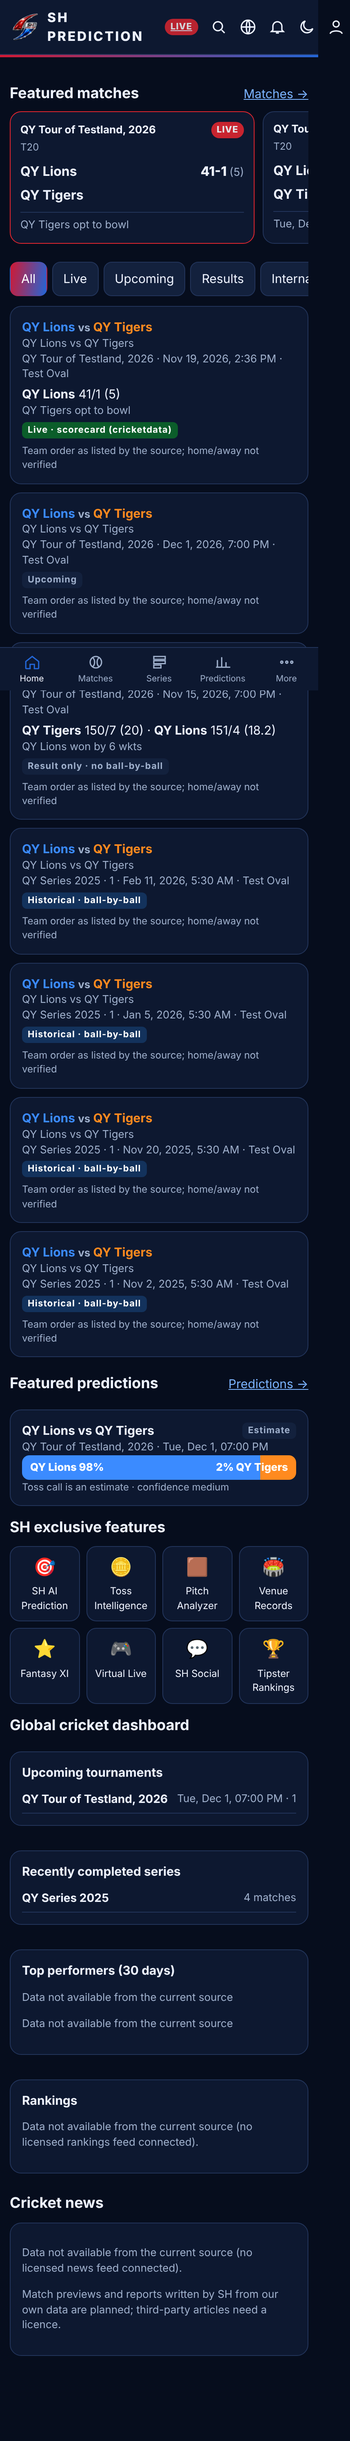
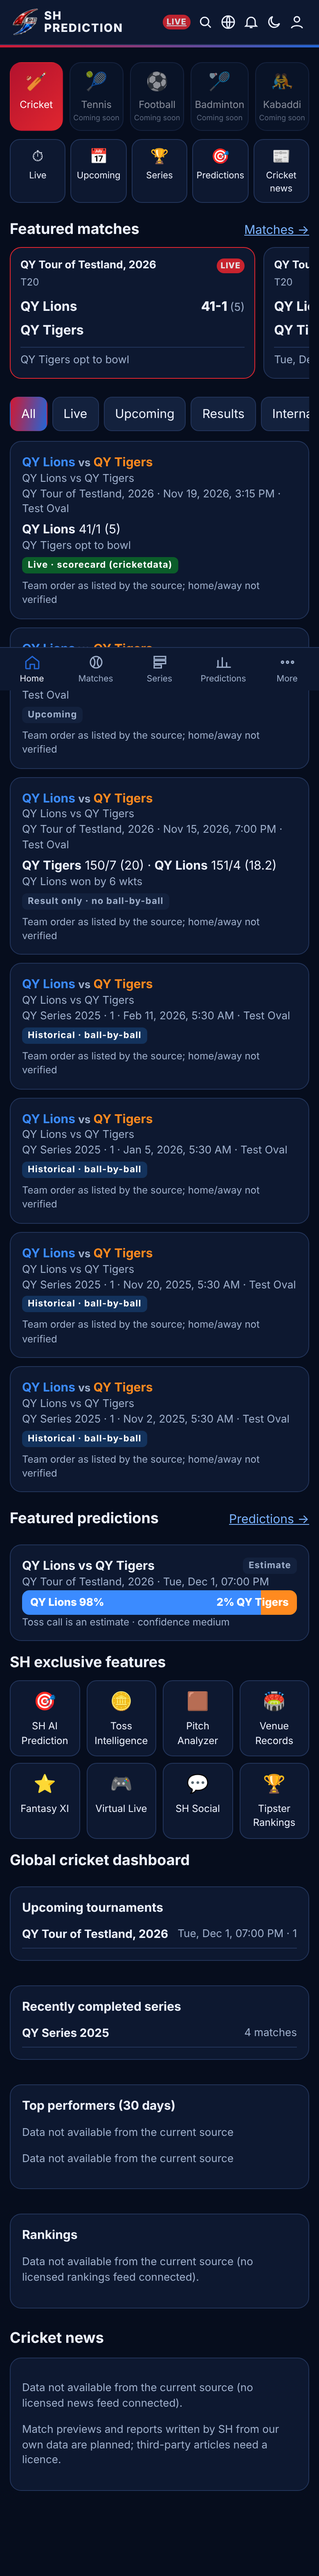
Owner mockups applied: sport selector + quick links, Match Center view modes (SH Advanced / CREX / Cricbuzz), score strip, commentary filters, History, Series Stats
- Home: Cricket active; Tennis/Football/Badminton/Kabaddi marked Coming soon (contract order); quick links Live/Upcoming/Series/Predictions/News
- Match Center: 3 view modes saved per device; CREX order Info, Fantasy, Discussions, Commentary, Live, Scorecard, History, Series Stats, Graphs
- Header: CRR, Target, RRR, Overs left, Toss; lead/trail banner for multi-day matches
- Commentary: All / Highlights / Overs / W / 4s / 6s with end-of-over summaries; History innings progression; Series Stats points table + leaders
- Startup draws once after all scripts load (fixes intermittent deep-link error); 16 new strings in 9 languages
- Tests: 93 passing; 48 Chrome page loads clean

Claude-Session: https://claude.ai/code/session_014DLpndkj9woB4NGX6QhaEa

diff --git a/app/hub.html b/app/hub.html
@@ -73,7 +73,10 @@ canvas{width:100%;height:190px;display:block}
 .h2h-row{display:grid;grid-template-columns:1fr auto;gap:2px 8px;padding:8px 0;border-bottom:1px solid var(--line);font-size:14px}
 header.top{display:flex;align-items:center;gap:10px}.hdr{display:flex;gap:2px;align-items:center}.hb{background:none;border:0;padding:6px;color:var(--text);display:inline-flex;align-items:center;cursor:pointer}
 .hb svg{width:22px;height:22px;fill:none;stroke:currentColor;stroke-width:1.8}.live-dot{background:#e0262f;color:#fff;font-size:11px;font-weight:800;padding:2px 7px;border-radius:999px;letter-spacing:.5px;animation:lp 1.6s infinite}
-@keyframes lp{50%{opacity:.6}}.sec{margin:14px 0}.sec-h{display:flex;align-items:baseline;justify-content:space-between}.sec h2{font-size:18px;margin:6px 0 8px}
+@keyframes lp{50%{opacity:.6}}.sports{display:flex;gap:8px;overflow-x:auto;margin:6px 0 10px}.sp{flex:1 0 64px;display:flex;flex-direction:column;align-items:center;gap:2px;padding:8px 4px;border-radius:14px;background:var(--surface);border:1px solid var(--line);color:var(--text);font-size:12px}
+.sp span{font-size:22px}.sp small{font-size:9px;color:var(--muted)}.sp.on{background:linear-gradient(135deg,#b3122e,#e0262f);color:#fff;border-color:transparent}.sp[aria-disabled=true]{opacity:.55}.shake{animation:sk .4s}@keyframes sk{25%{transform:translateX(-3px)}75%{transform:translateX(3px)}}
+.qlinks{display:grid;grid-template-columns:repeat(5,1fr);gap:6px;margin-bottom:6px}.qlinks a{display:flex;flex-direction:column;align-items:center;gap:2px;padding:8px 2px;border-radius:12px;background:var(--surface);border:1px solid var(--line);color:var(--text);text-decoration:none;font-size:11px;text-align:center}.qlinks span{font-size:18px}
+.sec{margin:14px 0}.sec-h{display:flex;align-items:baseline;justify-content:space-between}.sec h2{font-size:18px;margin:6px 0 8px}
 .hscroll{display:flex;gap:10px;overflow-x:auto;scroll-snap-type:x mandatory;padding-bottom:6px}.hscroll .lcard{flex:0 0 82%;max-width:330px;scroll-snap-align:start}
 .lcard{display:block;background:var(--surface);border:1px solid var(--line);border-radius:14px;padding:12px;color:var(--text);text-decoration:none}.lcard.is-live{border-color:#e0262f}
 .lc-top{display:flex;justify-content:space-between;gap:8px;align-items:center}.lc-comp{font-size:13px;font-weight:700;white-space:nowrap;overflow:hidden;text-overflow:ellipsis}.lc-meta{font-size:12px;margin:2px 0 6px}
@@ -81,7 +84,9 @@ header.top{display:flex;align-items:center;gap:10px}.hdr{display:flex;gap:2px;al
 .fbar{overflow-x:auto;flex-wrap:nowrap;white-space:nowrap}.mgrid{display:grid;grid-template-columns:repeat(auto-fill,minmax(270px,1fr));gap:10px}
 .shf{display:grid;grid-template-columns:repeat(4,1fr);gap:8px}.shf-i{display:flex;flex-direction:column;align-items:center;gap:4px;background:var(--surface);border:1px solid var(--line);border-radius:12px;padding:10px 4px;font-size:12px;text-align:center;color:var(--text);text-decoration:none}.shf-i span{font-size:22px}
 .dgrid{display:grid;grid-template-columns:repeat(auto-fit,minmax(260px,1fr));gap:10px}.dl{display:flex;justify-content:space-between;gap:8px;padding:6px 0;border-bottom:1px solid var(--line);color:var(--text);text-decoration:none;font-size:14px}
-.mc-tabs{align-items:center}.mc-more{background:var(--surface2);color:var(--text);border:1px solid var(--line);border-radius:999px;padding:7px 12px}.mc-more.on{border-color:var(--brand-blue)}
+.mc-tabs{align-items:center}.mc-views{display:flex;gap:6px;margin:8px 0;overflow-x:auto}.mc-views button{flex:1;white-space:nowrap;font-size:13px;padding:8px 10px;border-radius:10px;background:var(--surface);border:1px solid var(--line);color:var(--text)}.mc-views button.on{background:linear-gradient(90deg,#b3122e,#1d4ed8);color:#fff;border-color:transparent}
+.mc-strip4{display:grid;grid-template-columns:repeat(4,1fr);gap:1px;background:var(--line);border-radius:0 0 14px 14px;overflow:hidden;margin-top:-1px}.mc-strip4 div{background:#101a30;color:#dfe;padding:7px 4px;text-align:center;font-size:12px}.mc-strip4 b{display:block;font-size:16px;color:#fff}.mc-lead{background:#3a2f05;color:#ffd75e;text-align:center;font-weight:800;padding:6px;border-radius:0 0 12px 12px;margin-top:-1px}
+.cm-ov{background:var(--surface2);border-radius:10px;padding:8px 10px;margin:10px 0 4px;display:flex;justify-content:space-between;font-size:13px}.cm-b{display:grid;grid-template-columns:44px 34px 1fr;gap:8px;align-items:start;padding:8px 2px;border-bottom:1px solid var(--line)}.mc-more{background:var(--surface2);color:var(--text);border:1px solid var(--line);border-radius:999px;padding:7px 12px}.mc-more.on{border-color:var(--brand-blue)}
 .pt td,.pt th{text-align:center}.pt td:nth-child(2),.pt th:nth-child(2){text-align:left}
 @media(max-width:520px){header.top{gap:6px}header.top h1{font-size:14px;letter-spacing:1px;line-height:1.1;max-width:84px}header.top img{width:34px;height:34px}.hb{padding:3px}.hb svg{width:20px;height:20px}.live-dot{font-size:10px;padding:2px 5px}}
 @media(min-width:900px){.hscroll .lcard{flex:0 0 300px}.shf{grid-template-columns:repeat(8,1fr)}}
@@ -174,11 +179,16 @@ async matches(el){
 async match(el,id,tab){
  el.innerHTML=loading();
  let m;try{m=await api("/matches/"+id)}catch(e){return errorS(el,e,()=>SCREENS.match(el,id,tab))}
- const tabs=["weather","toss","pitch","h2h","prediction","xi","fantasy","live","scorecard","graphs"];
- const more=[["commentary","mc.commentary"],["xi","mc.squads"],["partnerships","mc.partnerships"],["fow","mc.fow"],["info","mc.info"],["h2h","mc.venue_records"],["community","mc.community"],["result","mc.result"]];
- tab=tab||(m.status==="live"?"live":m.status==="scheduled"?"prediction":"scorecard");
+ const VIEWS={crex:["info","fantasy","community","commentary","live","scorecard","history","seriesstats","graphs"],
+  cricbuzz:["info","live","scorecard","commentary","seriesstats","xi"],sh:["info","prediction","graphs","fantasy","h2h","live","scorecard"]};
+ const LBL={community:"mc.discussions",history:"mc.history",seriesstats:"mc.series_stats"};
+ const view=ls.get("shp_view")||"crex",tabs=VIEWS[view]||VIEWS.crex;
+ const ALL=["info","weather","toss","pitch","h2h","prediction","xi","fantasy","live","scorecard","commentary","partnerships","fow","graphs","history","seriesstats","community","result"];
+ const more=ALL.filter(k=>!tabs.includes(k)).map(k=>[k,LBL[k]||"mc."+k]);
+ tab=tab||(m.status==="live"?"live":"info");
  el.innerHTML='<p><a href="#/matches">← '+esc(t("nav.matches"))+'</a></p>'+(window.mcHeader?mcHeader(m):'')+'<div class="card"><h3>'+teamTxt(m.home,"c-home")+' <span class="muted">vs</span> '+teamTxt(m.away,"c-away")+origin(m.data_origin)+'</h3><div class="muted">'+esc(m.home.name)+' vs '+esc(m.away.name)+' · '+esc(m.competition)+' · '+esc(m.format)+' · '+when(m.start_utc)+'</div></div>'+
-  '<div class="sub mc-tabs" role="tablist">'+tabs.map(k=>'<a class="btn '+(k===tab?"on":"")+'" role="tab" aria-selected="'+(k===tab)+'" href="#/match/'+id+'/'+k+'">'+esc(t("mc."+k))+'</a>').join("")+
+  '<div class="mc-views" role="group" aria-label="'+esc(t("mc.view"))+'">'+[["sh","mc.view_sh"],["crex","mc.view_crex"],["cricbuzz","mc.view_cricbuzz"]].map(([k,l])=>'<button class="'+(k===view?"on":"")+'" onclick="ls.set(\'shp_view\',\''+k+'\');route()">'+esc(t(l))+'</button>').join("")+'</div>'+
+  '<div class="sub mc-tabs" role="tablist">'+tabs.map(k=>'<a class="btn '+(k===tab?"on":"")+'" role="tab" aria-selected="'+(k===tab)+'" href="#/match/'+id+'/'+k+'">'+esc(t(LBL[k]||"mc."+k))+'</a>').join("")+
   '<select class="btn mc-more'+(tabs.includes(tab)?'':' on')+'" aria-label="'+esc(t("mc.more"))+'" onchange="if(this.value)location.hash=\'#/match/'+id+'/\'+this.value"><option value="">'+esc(t("mc.more"))+' ▾</option>'+more.map(([k,l])=>'<option value="'+k+'"'+(k===tab&&!tabs.includes(tab)?' selected':'')+'>'+esc(t(l))+'</option>').join("")+'</select></div><div id="tb">'+loading()+'</div>';
  const cur=document.querySelector('.sub .on');if(cur)cur.scrollIntoView({inline:"center",block:"nearest"});
  const tb=$("#tb");const nm=tid=>tid===m.home.id?teamTxt(m.home,"c-home"):(tid===m.away.id?teamTxt(m.away,"c-away"):"—");
@@ -278,7 +288,8 @@ window.addEventListener("hashchange",route);
 window.addEventListener("online",route);window.addEventListener("offline",()=>{$("#main").insertAdjacentHTML("afterbegin",'<div class="offline" role="status">'+esc(t("state.offline"))+'</div>')});
 (async()=>{setTheme(ls.get("shp_theme")||"dark");await loadLang(LANG);
  if(TOKEN){try{PREF=await api("/me/preferences");if(PREF.language_code!==LANG)await loadLang(PREF.language_code);setTheme(PREF.theme)}catch(e){if(e.status===401){TOKEN="";ls.del("shp_session")}}}
- route()})();
+ // draw once, after every screen script (hub_social, match_center, shell) has loaded
+ if(document.readyState==="loading")document.addEventListener("DOMContentLoaded",route,{once:true});else route()})();
 </script>
 <script src="/hub_social.js"></script>
 <script src="/match_center.js"></script>

diff --git a/app/match_center.js b/app/match_center.js
@@ -18,8 +18,16 @@ window.mcHeader=function(m){
  else if(L&&L.innings&&L.innings.length){L.innings.forEach(i=>lines.push({t:teamShort(m,i.inning),r:i.r,w:i.w,o:i.o}));const li=L.innings[L.innings.length-1];cr=crr(li.r,li.o)}
  if(!lines.length)return "";
  const toss=m.toss_winner_id?(m.toss_winner_id===m.home.id?(m.home.short_code||m.home.name):(m.away.short_code||m.away.name))+(m.toss_decision?" · "+m.toss_decision:""):"";
+ const quota={T10:60,T20:120,"The Hundred":100,ODI:300,"List A":300}[m.format];let cells=[["CRR",cr]],banner="";
+ if(lines.length>=2&&quota){const tgt=lines[0].r+1,used=oversToBalls(lines[1].o),need=tgt-lines[1].r,left=quota-used;cells.push([t("mc.target"),tgt]);
+  if(m.status==="live"&&need>0&&left>0){cells.push(["RRR",(need*6/left).toFixed(2)]);banner=lines[1].t+" need "+need+" from "+left+" balls"}}
+ else if(lines.length>=1&&quota&&m.status==="live"){cells.push([t("mc.overs_left"),((quota-oversToBalls(lines[0].o))/6).toFixed(1)])}
+ if(!quota&&lines.length>=2){const tot={};lines.forEach(x=>tot[x.t]=(tot[x.t]||0)+x.r);const cur=lines[lines.length-1].t,other=Object.keys(tot).find(k=>k!==cur);
+  if(other!=null){const d=tot[cur]-tot[other];banner=cur+" "+t(d>=0?"mc.lead_by":"mc.trail_by")+" "+Math.abs(d)+" runs"}}
+ if(toss)cells.push(["Toss",toss]);
  return '<div class="mc-head" aria-live="polite"><div class="mc-lines">'+lines.map((x,i)=>'<div class="mc-line'+(i===lines.length-1?' cur':'')+'"><b>'+esc(x.t)+'</b> <span class="mc-score">'+x.r+'-'+x.w+'</span> <span class="muted">('+esc(String(x.o))+')</span></div>').join("")+'</div>'+
-  (ev?'<div class="mc-ev ev-'+ev.toLowerCase()+'">'+ev+'</div>':'')+'</div><div class="mc-strip"><span>CRR '+cr+'</span>'+(toss?'<span>Toss: '+esc(toss)+'</span>':'')+'<span class="tag ds-'+esc(m.data_status)+'">'+esc(m.data_status_label||"")+'</span></div>'+
+  (ev?'<div class="mc-ev ev-'+ev.toLowerCase()+'">'+ev+'</div>':'')+'</div><div class="mc-strip4" style="grid-template-columns:repeat('+cells.length+',1fr)">'+cells.map(([a,b])=>'<div>'+esc(String(a))+'<b>'+esc(String(b))+'</b></div>').join("")+'</div>'+
+  (banner?'<div class="mc-lead">'+esc(banner)+'</div>':'')+'<div class="row" style="margin:6px 2px"><span class="tag ds-'+esc(m.data_status)+'">'+esc(m.data_status_label||"")+'</span></div>'+
   (pd&&pd.scorecard_at?'<div class="muted mc-fresh">Updated '+ago(pd.scorecard_at)+' · source '+esc(pd.source)+'</div>':L?'<div class="muted mc-fresh">Score updated '+ago(L.fetched_at)+' · source '+esc(L.source)+'</div>':'');
 };
 
@@ -67,6 +75,31 @@ function matchDetails(m){const info=(m.provider_detail&&m.provider_detail.info)|
  if(res)rows.push(["Result",'<b>'+esc(res)+'</b>']);
  rows.push(["Data",'<span class="tag ds-'+esc(m.data_status)+'">'+esc(m.data_status_label||"")+'</span>']);
  return '<div class="card"><h3>Match details</h3><dl class="kv">'+rows.map(([a,b])=>'<dt>'+esc(a)+'</dt><dd>'+b+'</dd>').join("")+'</dl></div>'}
+function inningsList(m,sc){const pd=PD(m);if(pd)return pd.scorecard.filter(i=>i.total).map(i=>({team:String(i.inning||"").replace(/ Inning \d+$/,""),r:i.total.r,w:i.total.w,o:i.total.o}));
+ if(sc&&sc.innings&&sc.innings.length)return sc.innings.map(i=>({team:i.team||(i.batting_team_id===m.home.id?m.home.name:i.batting_team_id===m.away.id?m.away.name:""),r:i.runs,w:i.wickets,o:i.overs}));const L=m.live_score;
+ return L&&L.innings?L.innings.map(i=>({team:String(i.inning||"").replace(/ Inning \d+$/,""),r:i.r,w:i.w,o:i.o})):[]}
+window.mcTab.history=async m=>{let sc=null;try{sc=await api("/matches/"+m.id+"/scorecard")}catch(e){}
+ const I=inningsList(m,sc);if(!I.length)return '<div class="state">'+esc(t("data.na"))+'</div>';
+ return '<div class="card"><h3>'+esc(t("mc.innings_progression"))+'</h3>'+I.map((x,i)=>'<div class="dl"><span><b>'+esc(x.team)+'</b> <span class="muted">innings '+(i+1)+'</span></span><span><b>'+x.r+'/'+x.w+'</b> <span class="muted">('+esc(String(x.o))+' ov · RR '+crr(x.r,x.o)+')</span></span></div>').join("")+'</div>'+
+  '<div class="card"><h3>Day / session breakdown</h3><p class="muted">'+esc(t("data.na"))+'. Session splits need ball times, which the current sources do not send.</p></div>'};
+window.mcTab.seriesstats=async m=>{if(!m.competition_id)return '<div class="state">'+esc(t("data.na"))+'</div>';
+ const d=await api("/series/"+m.competition_id);
+ return '<p><a class="btn" href="#/series/'+m.competition_id+'">'+esc(d.series.name)+' →</a></p>'+(d.points_table.length?'<div class="card"><h3>'+esc(t("series.points"))+'</h3><table class="simple pt"><thead><tr><th>#</th><th>Team</th><th>P</th><th>W</th><th>L</th><th>NR</th><th>Pts</th><th>NRR</th></tr></thead><tbody>'+
+  d.points_table.map((x,i)=>'<tr><td>'+(i+1)+'</td><td><b>'+esc(x.short_code||x.team)+'</b></td><td>'+x.played+'</td><td>'+x.won+'</td><td>'+x.lost+'</td><td>'+x.no_result+'</td><td><b>'+x.points+'</b></td><td>'+(x.nrr==null?"—":(x.nrr>0?"+":"")+x.nrr.toFixed(3))+'</td></tr>').join("")+'</tbody></table><p class="muted">'+esc(d.points_rule)+'</p></div>':'')+
+  '<div class="dgrid"><div class="card"><h3>Most runs</h3>'+(d.top_batters.map(x=>'<div class="dl"><b>'+esc(x.name)+'</b><span>'+x.runs+'</span></div>').join("")||'<p class="muted">'+esc(t("data.na"))+'</p>')+'</div><div class="card"><h3>Most wickets</h3>'+(d.top_bowlers.map(x=>'<div class="dl"><b>'+esc(x.name)+'</b><span>'+x.wickets+'</span></div>').join("")||'<p class="muted">'+esc(t("data.na"))+'</p>')+'</div></div>'};
+window.mcTab.commentary=async m=>{const j=await api("/matches/"+m.id+"/commentary?limit=100&lang="+encodeURIComponent(LANG));if(!j.items.length)return '<div class="state">'+esc(t("data.na"))+'</div>';
+ const id="cm"+m.id;setTimeout(()=>{const box=document.getElementById(id);if(!box)return;let f="all";
+  const draw=()=>{const items=j.items.filter(b=>f==="all"||f==="overs"||(f==="w"?b.is_wicket:f==="4"?b.runs_bat===4:f==="6"?b.runs_bat===6:f==="hl"?(b.is_wicket||b.runs_bat>=4):true));
+   const byOver={};j.items.forEach(b=>{const k=b.innings_no+"-"+b.over_no;(byOver[k]=byOver[k]||{r:0,w:0,inn:b.innings_no,ov:b.over_no});byOver[k].r+=(b.runs_bat||0)+(b.extras||0);byOver[k].w+=b.is_wicket?1:0});
+   let last=null,out="";
+   if(f==="overs"){out=Object.values(byOver).map(o=>'<div class="cm-ov"><b>Over '+(o.ov+1)+'</b><span>'+o.r+' runs · '+o.w+' wkts</span></div>').join("")}
+   else items.forEach(b=>{const k=b.innings_no+"-"+b.over_no;if(k!==last&&f==="all"){const o=byOver[k];out+='<div class="cm-ov"><b>End of over '+(b.over_no+1)+'</b><span>'+o.r+' runs · '+o.w+' wkts</span></div>';last=k}
+    const r=(b.runs_bat||0)+(b.extras||0),lab=b.is_wicket?"W":String(r),cls=b.is_wicket?"bw":b.runs_bat===6?"b6":b.runs_bat===4?"b4":r?"b1":"b0";
+    out+='<div class="cm-b"><b>'+b.over_no+'.'+b.ball_in_over+'</b><span class="bl '+cls+'">'+esc(lab)+'</span><span>'+esc(b.generated_commentary||"")+'</span></div>'});
+   box.querySelector(".cm-list").innerHTML=out||'<p class="muted">—</p>';box.querySelectorAll("[data-cf]").forEach(x=>x.classList.toggle("on",x.dataset.cf===f))};
+  box.querySelectorAll("[data-cf]").forEach(x=>x.onclick=()=>{f=x.dataset.cf;draw()});draw()},0);
+ return '<div id="'+id+'"><div class="chips">'+[["all","home.all"],["hl","mc.highlights"],["overs","mc.overs"],["w","W"],["4","4s"],["6","6s"]].map(([k,l])=>'<button data-cf="'+k+'">'+esc(l.indexOf(".")>0?t(l):l)+'</button>').join("")+'</div><div class="card cm-list"></div>'+
+  (j.language_note?'<p class="muted">'+esc(j.language_note)+'</p>':'')+'<p class="muted">'+esc(j.note||"")+'</p></div>'};
 window.mcTab.info=async m=>matchDetails(m)+'<p class="muted">Source: '+esc(m.source)+'</p>'+(m.attribution?'<p class="muted">'+esc(m.attribution.text)+' · <a href="'+esc(m.attribution.url)+'" rel="noopener" target="_blank">licence</a></p>':'');
 window.mcTabAfter={
  info:m=>(function(){const v=m.history&&m.history.venue;if(!v)return "";

diff --git a/app/shell.js b/app/shell.js
@@ -36,8 +36,12 @@ const FILTERS=[["all","home.all",""],["live","home.live","status=live"],["upcomi
 async function filtered(f,q,limit){const def=FILTERS.find(x=>x[0]===f)||FILTERS[0];let p=def[2];
  if(!/status=/.test(p)){const [l,u,r]=await Promise.all(["live","upcoming","results"].map(s=>api(dq("/matches?status="+s+"&limit="+limit+(p?"&"+p:"")+(q?"&q="+encodeURIComponent(q):"")))));return [...l.items,...u.items,...r.items].slice(0,limit*2)}
  return (await api(dq("/matches?"+p+"&limit="+limit+(q?"&q="+encodeURIComponent(q):"")))).items}
+// sports in the owner's approved order; only Cricket has working data and code today
+const SPORTS=[["cricket","Cricket","🏏",true],["tennis","Tennis","🎾",false],["football","Football","⚽",false],["badminton","Badminton","🏸",false],["kabaddi","Kabaddi","🤼",false]];
 SCREENS.home=async function(el){
- el.innerHTML='<div class="sec"><div class="sec-h"><h2>'+esc(t("home.featured"))+'</h2><a href="#/matches">'+esc(t("nav.matches"))+' →</a></div><div class="hscroll" id="feat">'+loading()+'</div></div>'+
+ el.innerHTML='<div class="sports" role="tablist" aria-label="'+esc(t("home.sports"))+'">'+SPORTS.map(([k,l,i,on])=>'<button role="tab" class="sp'+(k==="cricket"?" on":"")+'"'+(on?'':' aria-disabled="true" title="'+esc(t("home.coming_soon"))+'"')+'><span>'+i+'</span>'+esc(l)+(on?'':'<small>'+esc(t("home.coming_soon"))+'</small>')+'</button>').join("")+'</div>'+
+  '<div class="qlinks">'+[["#/live-now","home.live","⏱"],["#/matches","home.upcoming","📅"],["#/series","nav.series","🏆"],["#/predictions","nav.predictions","🎯"],["#news","home.news","📰"]].map(([h,k,i])=>'<a href="'+h+'"'+(h==="#news"?' onclick="event.preventDefault();document.getElementById(\'news\').scrollIntoView({behavior:\'smooth\'})"':'')+'><span>'+i+'</span>'+esc(t(k))+'</a>').join("")+'</div>'+
+  '<div class="sec"><div class="sec-h"><h2>'+esc(t("home.featured"))+'</h2><a href="#/matches">'+esc(t("nav.matches"))+' →</a></div><div class="hscroll" id="feat">'+loading()+'</div></div>'+
   '<div class="chips fbar" id="fb" role="tablist"></div><div id="fl"></div>'+
   '<div class="sec"><div class="sec-h"><h2>'+esc(t("home.featured_predictions"))+'</h2><a href="#/predictions">'+esc(t("nav.predictions"))+' →</a></div><div id="fp">'+loading()+'</div></div>'+
   '<div class="sec"><h2>'+esc(t("home.sh_features"))+'</h2><div class="shf">'+[["#/predictions","SH AI Prediction","🎯"],["#/predictions","Toss Intelligence","🪙"],["#/matches","Pitch Analyzer","🟫"],["#/series","Venue Records","🏟"],
@@ -75,6 +79,7 @@ SCREENS.matches=async function(el){
   const L=$("#list");L.innerHTML=loading();try{const items=await filtered(cur,$("#q").value.trim(),30);L.innerHTML=items.length?'<div class="mgrid">'+items.map(liveCard).join("")+'</div>':NA()}catch(e){errorS(L,e,go)}};
  go();let tm;$("#q").oninput=()=>{clearTimeout(tm);tm=setTimeout(go,300)}};
 SCREENS["live-now"]=async el=>{sessionStorage.setItem("shp_mf","live");location.hash="#/matches"};
+document.addEventListener("click",e=>{const b=e.target.closest(".sp[aria-disabled=true]");if(b){e.preventDefault();b.classList.add("shake");setTimeout(()=>b.classList.remove("shake"),500)}});
 
 /* ---------------- Series list and series page */
 SCREENS.series=async function(el,id){
@@ -111,6 +116,4 @@ SCREENS.search=async function(el){el.innerHTML='<h2>Search</h2><input id="gq" ty
   const [m,s,u]=await Promise.all([api("/matches?q="+encodeURIComponent(q)+"&limit=10").catch(()=>({items:[]})),api("/series?q="+encodeURIComponent(q)).catch(()=>({items:[]})),api("/social/search/users?q="+encodeURIComponent(q)).catch(()=>({items:[]}))]);
   $("#gr").innerHTML='<h3>'+esc(t("nav.series"))+'</h3>'+(s.items.slice(0,5).map(x=>'<a class="card" href="#/series/'+x.id+'">'+esc(x.name)+'</a>').join("")||'<p class="muted">—</p>')+
    '<h3>'+esc(t("nav.matches"))+'</h3>'+(m.items.map(matchCard).join("")||'<p class="muted">—</p>')+'<h3>Users</h3>'+((u.items||[]).map(x=>'<a class="card" href="#/u/'+esc(x.username)+'">'+esc(x.display_name)+' @'+esc(x.username)+'</a>').join("")||'<p class="muted">—</p>')},300)}};
-// the main script may have drawn the first screen before this file loaded: draw it again with the new screens
-if(typeof route==="function")route();
 })();

diff --git a/app/i18n.py b/app/i18n.py
@@ -854,3 +854,32 @@ for _code, _vals in _SHELL.items():
     (EN if _code == "en" else STRINGS.setdefault(_code, {})).update(_d)
     if _code == "en":
         STRINGS.setdefault("en", {}).update(_d)
+
+# Match Center views and tabs from the owner's approved mockups (19 Nov 2026)
+KEYS4 = ["mc.discussions", "mc.history", "mc.series_stats", "mc.view", "mc.view_sh", "mc.view_crex", "mc.view_cricbuzz", "home.sports", "home.coming_soon",
+         "mc.highlights", "mc.overs", "mc.innings_progression", "mc.lead_by", "mc.trail_by", "mc.target", "mc.overs_left"]
+_MC4 = {
+ "en": ["Discussions", "History", "Series Stats", "Match view", "SH Advanced", "CREX-style", "Cricbuzz-style", "Sports", "Coming soon",
+        "Highlights", "Overs", "Innings progression", "lead by", "trail by", "Target", "Overs left"],
+ "hi": ["चर्चा", "इतिहास", "सीरीज़ आँकड़े", "मैच व्यू", "SH एडवांस्ड", "CREX-स्टाइल", "Cricbuzz-स्टाइल", "खेल", "जल्द आ रहा है",
+        "मुख्य पल", "ओवर", "पारी की प्रगति", "बढ़त", "पीछे", "लक्ष्य", "बचे ओवर"],
+ "te": ["చర్చలు", "చరిత్ర", "సిరీస్ గణాంకాలు", "మ్యాచ్ వ్యూ", "SH అడ్వాన్స్డ్", "CREX-స్టైల్", "Cricbuzz-స్టైల్", "క్రీడలు", "త్వరలో",
+        "ముఖ్య క్షణాలు", "ఓవర్లు", "ఇన్నింగ్స్ ప్రగతి", "ఆధిక్యం", "వెనుకబడి", "లక్ష్యం", "మిగిలిన ఓవర్లు"],
+ "ta": ["விவாதங்கள்", "வரலாறு", "தொடர் புள்ளிவிவரம்", "போட்டி பார்வை", "SH மேம்பட்ட", "CREX-பாணி", "Cricbuzz-பாணி", "விளையாட்டுகள்", "விரைவில்",
+        "முக்கிய தருணங்கள்", "ஓவர்கள்", "இன்னிங்ஸ் முன்னேற்றம்", "முன்னிலை", "பின்தங்கல்", "இலக்கு", "மீதமுள்ள ஓவர்கள்"],
+ "kn": ["ಚರ್ಚೆಗಳು", "ಇತಿಹಾಸ", "ಸರಣಿ ಅಂಕಿಅಂಶ", "ಪಂದ್ಯ ನೋಟ", "SH ಸುಧಾರಿತ", "CREX-ಶೈಲಿ", "Cricbuzz-ಶೈಲಿ", "ಕ್ರೀಡೆಗಳು", "ಶೀಘ್ರದಲ್ಲೇ",
+        "ಮುಖ್ಯ ಕ್ಷಣಗಳು", "ಓವರ್ಗಳು", "ಇನ್ನಿಂಗ್ಸ್ ಪ್ರಗತಿ", "ಮುನ್ನಡೆ", "ಹಿನ್ನಡೆ", "ಗುರಿ", "ಉಳಿದ ಓವರ್ಗಳು"],
+ "bn": ["আলোচনা", "ইতিহাস", "সিরিজ পরিসংখ্যান", "ম্যাচ ভিউ", "SH অ্যাডভান্সড", "CREX-স্টাইল", "Cricbuzz-স্টাইল", "খেলা", "শীঘ্রই আসছে",
+        "গুরুত্বপূর্ণ মুহূর্ত", "ওভার", "ইনিংসের অগ্রগতি", "এগিয়ে", "পিছিয়ে", "লক্ষ্য", "বাকি ওভার"],
+ "mr": ["चर्चा", "इतिहास", "मालिका आकडेवारी", "सामना दृश्य", "SH प्रगत", "CREX-शैली", "Cricbuzz-शैली", "खेळ", "लवकरच",
+        "महत्त्वाचे क्षण", "षटके", "डावाची प्रगती", "आघाडी", "पिछाडी", "लक्ष्य", "उरलेली षटके"],
+ "ur": ["گفتگو", "تاریخ", "سیریز کے اعداد", "میچ ویو", "SH ایڈوانسڈ", "CREX طرز", "Cricbuzz طرز", "کھیل", "جلد آ رہا ہے",
+        "اہم لمحات", "اوورز", "اننگز کی پیش رفت", "برتری", "پیچھے", "ہدف", "باقی اوورز"],
+ "es": ["Debates", "Historial", "Estadísticas de la serie", "Vista del partido", "SH Avanzada", "Estilo CREX", "Estilo Cricbuzz", "Deportes", "Próximamente",
+        "Momentos clave", "Overs", "Progresión de la entrada", "ventaja de", "detrás por", "Objetivo", "Overs restantes"],
+}
+for _code, _vals in _MC4.items():
+    _d = dict(zip(KEYS4, _vals))
+    (EN if _code == "en" else STRINGS.setdefault(_code, {})).update(_d)
+    if _code == "en":
+        STRINGS.setdefault("en", {}).update(_d)

diff --git a/docs/qa/QA-REPORT.md b/docs/qa/QA-REPORT.md
@@ -1,3 +1,11 @@
+# QA addendum — owner mockups (10 concept boards, 19 Nov 2026) applied to the real app
+
+`pytest`: **93 passed**. Chrome: 48 page loads (12 routes × 2 loads × phone 390 px and desktop 1366 px): no JavaScript errors, no "could not load". Startup now draws once, after all screen scripts load, which fixes an intermittent "Cannot set properties of null" on deep links.
+Built from the mockups with our own data only: sport selector (Cricket live; Tennis, Football, Badminton, Kabaddi "Coming soon", contract order), quick links (Live, Upcoming, Series, Predictions, News); Match Center view modes SH Advanced / CREX-style / Cricbuzz-style (saved per device) with CREX order Info, Fantasy, Discussions, Commentary, Live, Scorecard, History, Series Stats, Graphs; header strip CRR / Target / RRR / Overs left / Toss and lead-trail banner for multi-day matches; Commentary filters All, Highlights, Overs, W, 4s, 6s with end-of-over summaries; History (innings progression; day/session split marked unavailable: no ball times from sources); Series Stats (points table, most runs/wickets). Mockup sample players, scores and percentages were not copied. The "World" tab in one mockup was left out per the implementation contract.
+Pending: Discussions uses SH SOCIAL match posts; fantasy rankings by filters (last 5 / at venue / vs team), player analysis page, day/session history, AI recap need data or work not yet done.
+
+---
+
 # QA addendum — Blueprint v2.0, Phase 2 (core application)
 
 `pytest`: **93 passed**. Chrome at 360/390/430 px (phone), 768 px (tablet), 1366 px (desktop): Home, Matches, Series list, Series page (points table), Predictions, Match Center (default tab by status), More, Search, Social, Leaderboard: **no JavaScript errors, no horizontal overflow** (only the intended scrolling rows). The new Home is drawn on every load (3 loads per width). Screenshots: `docs/qa/v2/`.
